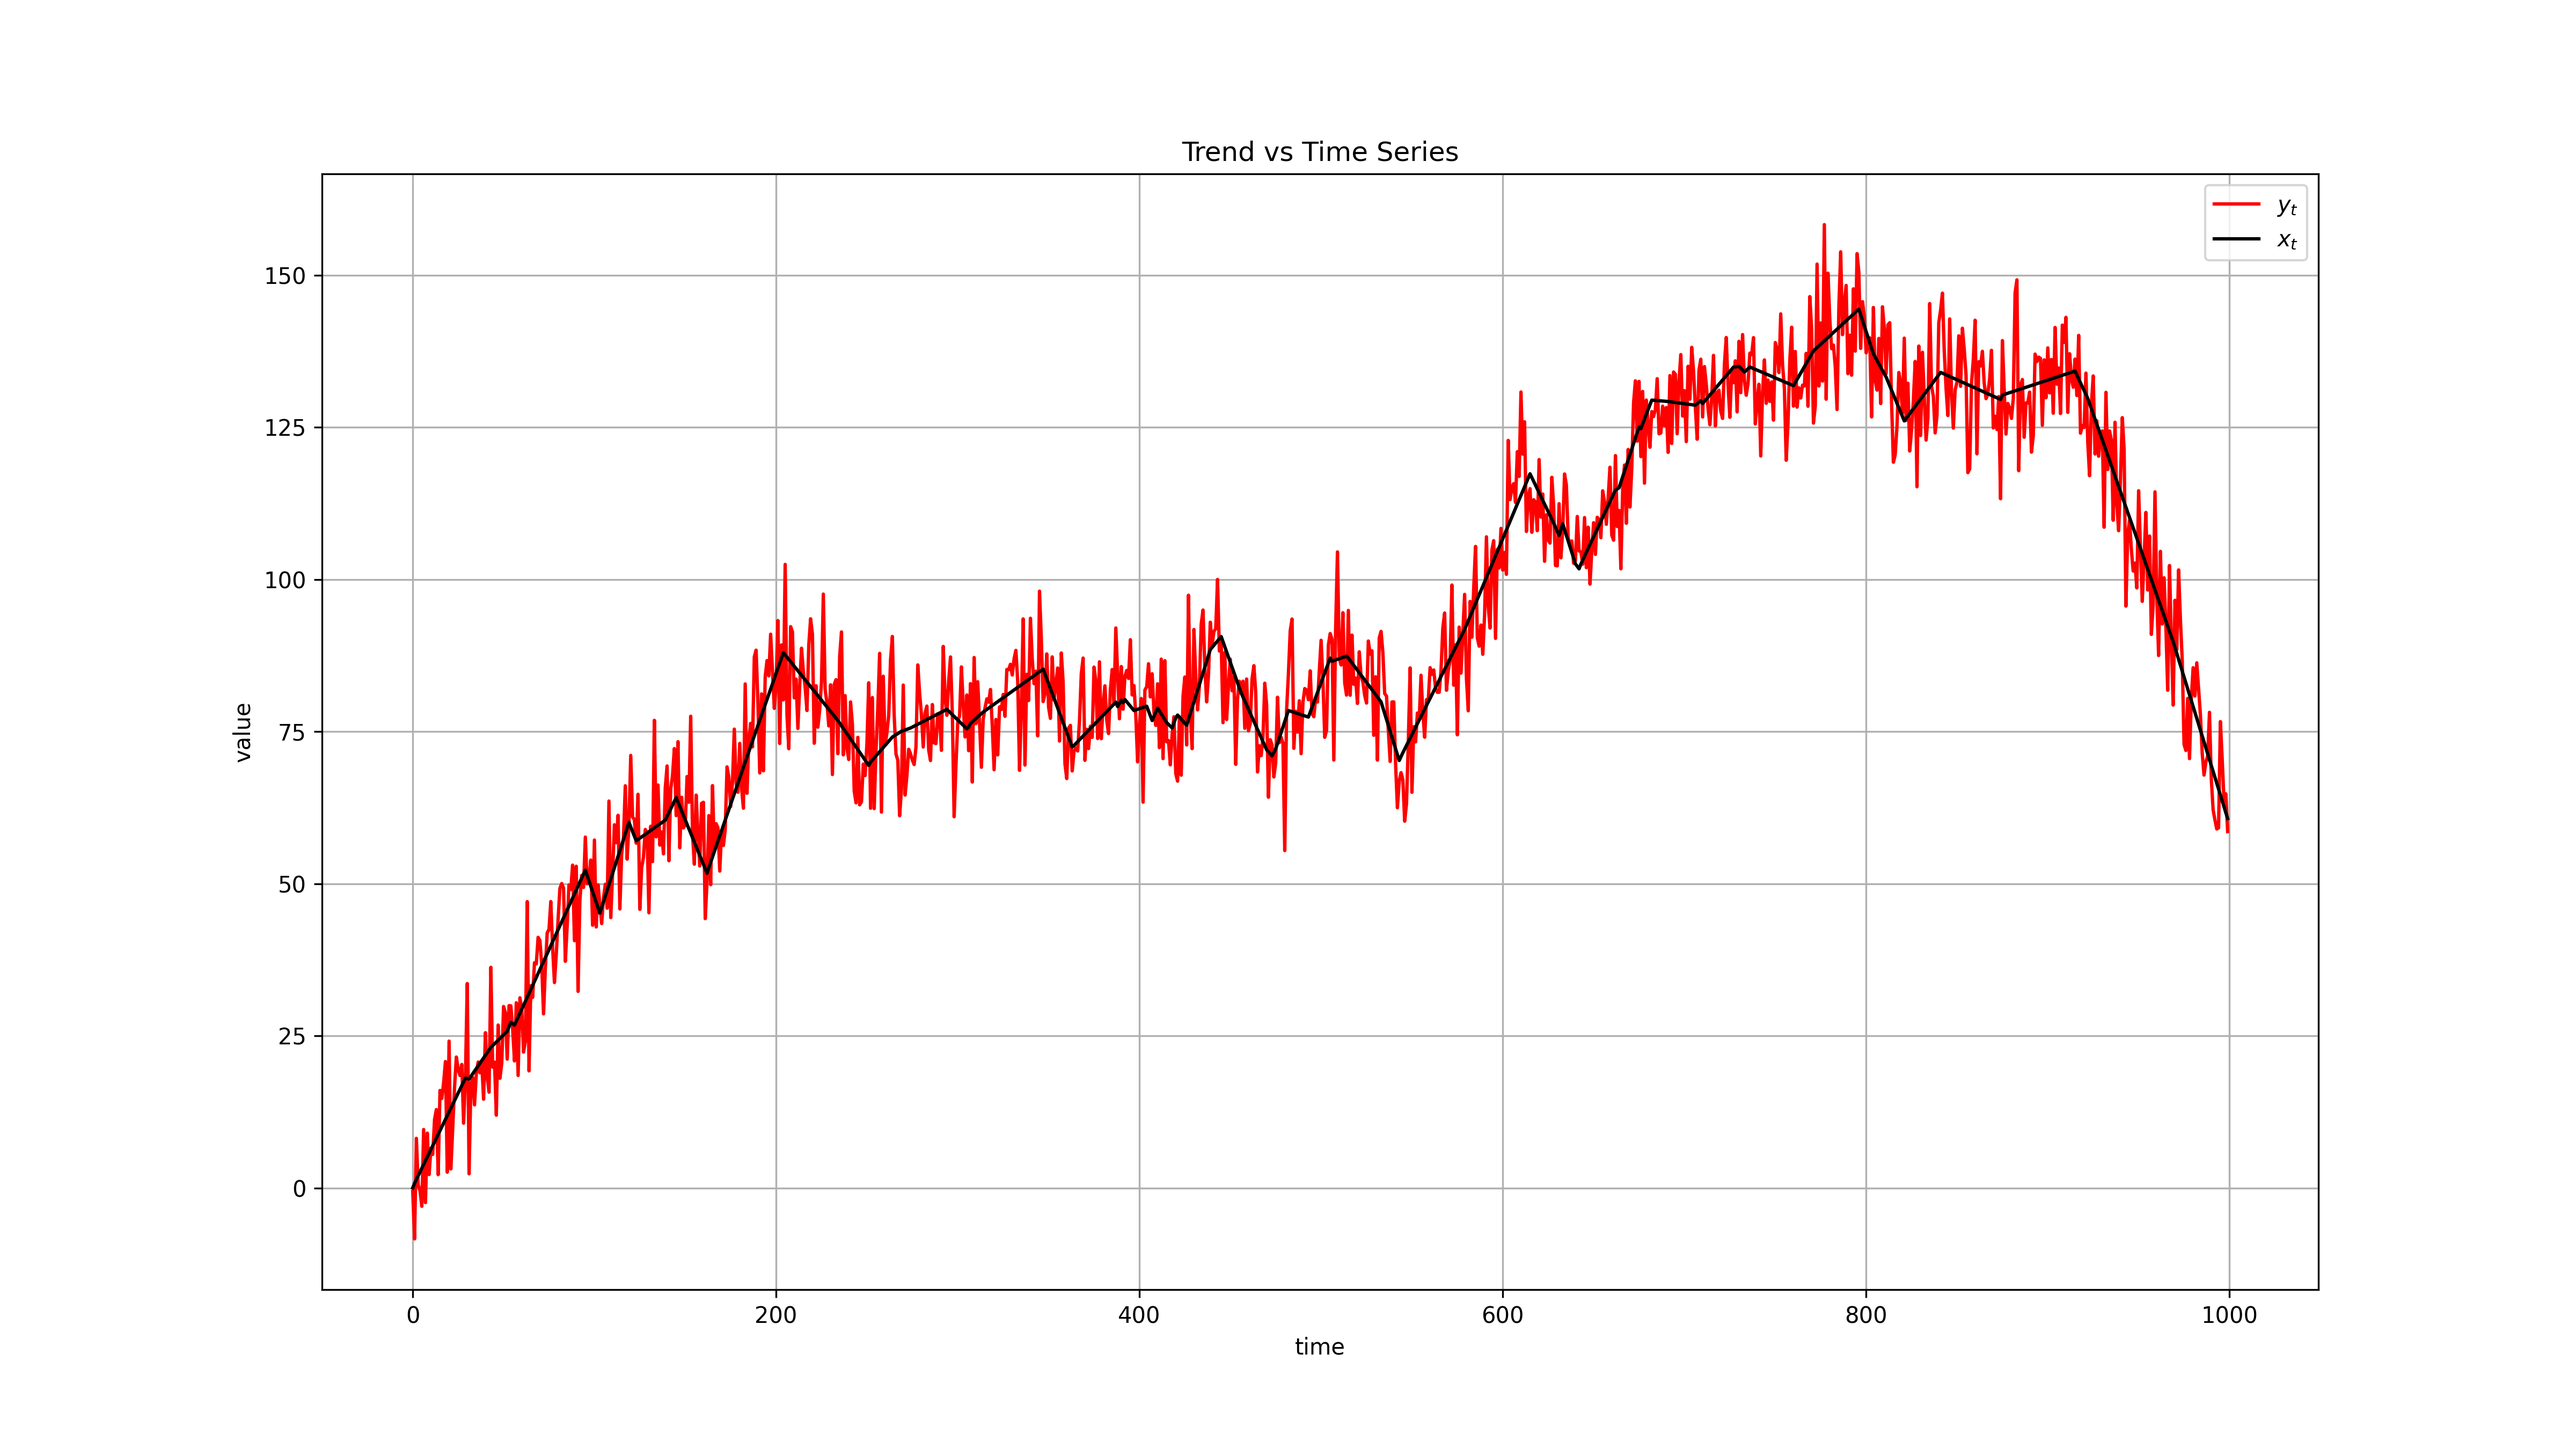
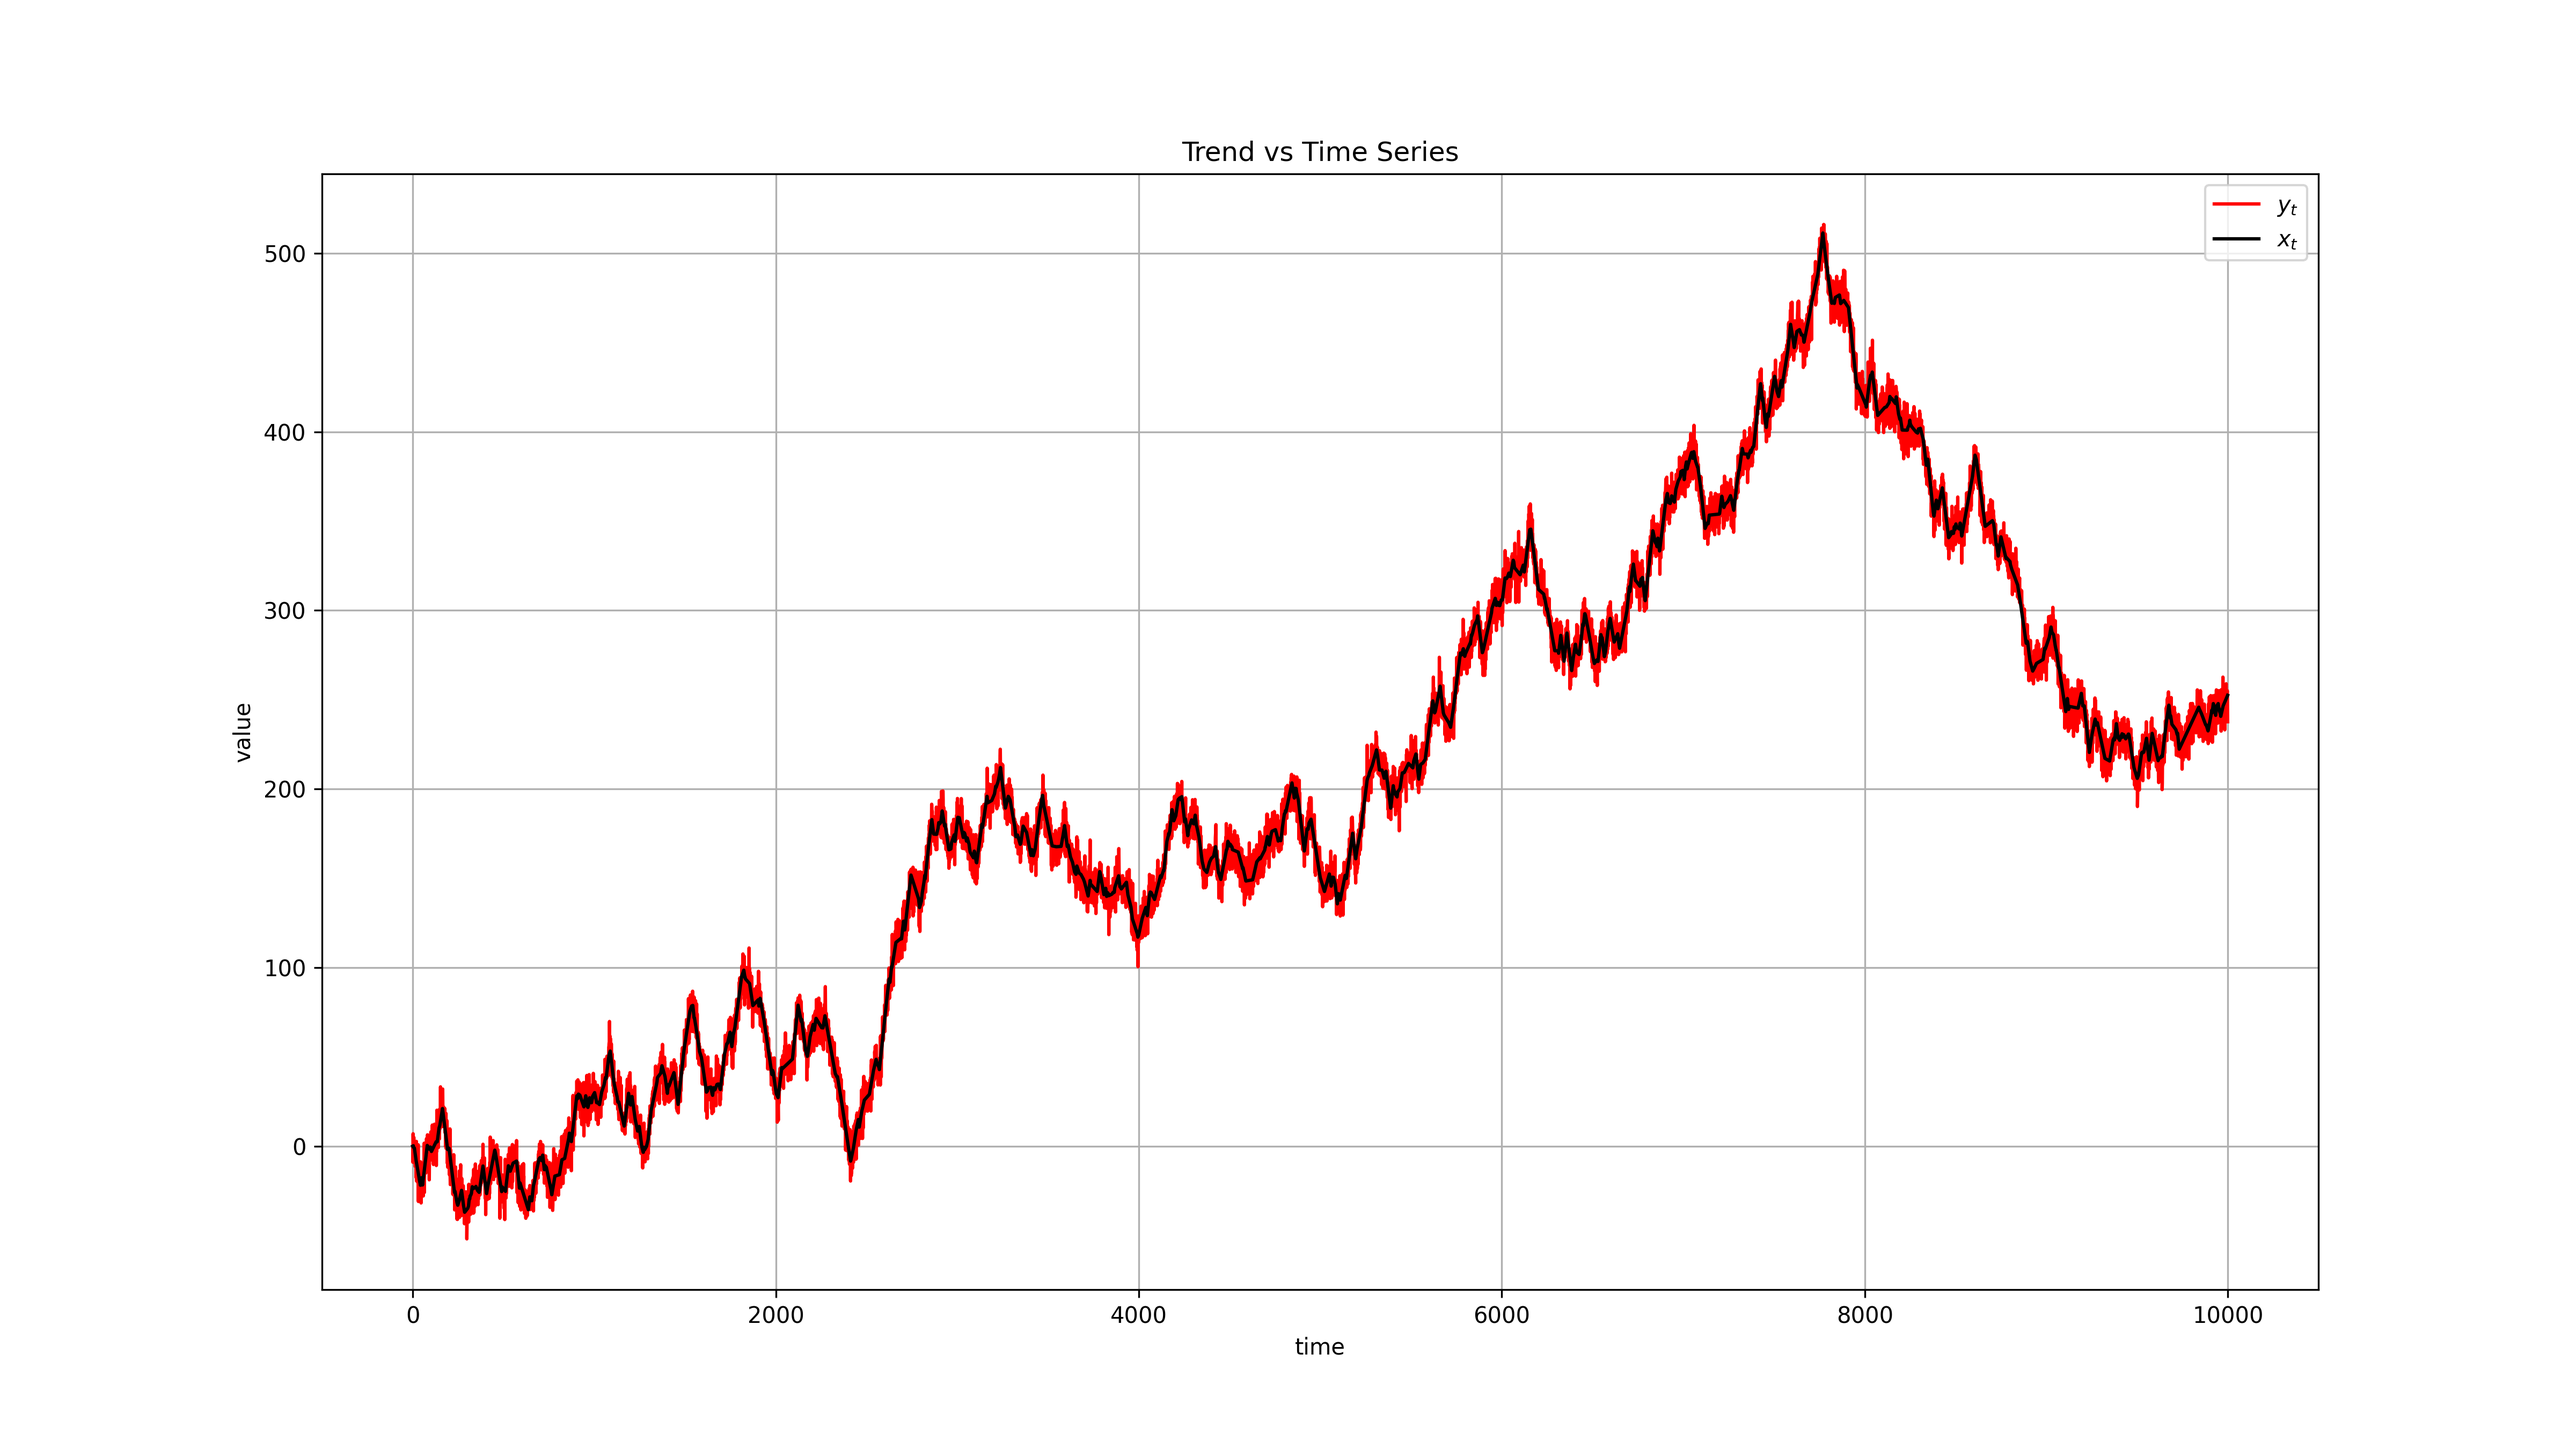
lab3

diff --git a/lab3/src/main.py b/lab3/src/main.py
@@ -59,8 +59,8 @@ def compute_Dx(x):
         Dx[i] = x[i] - 2 * x[i + 1] + x[i + 2]  
     return Dx
 
-def gradient(x, y, D):
-    return np.matmul(D, np.matmul(D.T, x) - y)
+def gradient(x, y):
+    return compute_Dx(compute_DTx(x) - y)
 
 def projection(x, rho):
     return np.maximum(-rho, np.minimum(rho, x))
@@ -68,28 +68,28 @@ def projection(x, rho):
 def g(x, alpha, grad_x, rho):
     return 1 / alpha * (x - projection(x - alpha * grad_x, rho))
 
-def f_lagrange(miu, y, D):
-    return (- 1 / 2) * np.linalg.norm(D.T @ miu) ** 2 + miu.T @ D @ y
+def f_lagrange(miu, y):
+    return (- 1 / 2) * np.linalg.norm(compute_DTx(miu)) ** 2 + miu.T @ compute_Dx(y)
 
-def mgp(y, rho, D, n, e = 1e-2, p = 0.5, c = 0.5, max_iter = 1000):
+def mgp(y, rho, n, e = 1e-2, p = 0.5, c = 0.5, max_iter = 1000):
     miu = np.zeros(n - 2)
     miu = projection(miu, rho)
 
     for i in range (max_iter):
-        grad_miu = gradient(miu, y, D)
+        grad_miu = gradient(miu, y)
 
         alpha_k = 1.0
         t = 0
 
-        f_x_k = f_lagrange(miu, y, D)
-        f_x_k_next = f_lagrange(projection(miu - alpha_k * grad_miu, rho), y, D)
+        f_x_k = f_lagrange(miu, y)
+        f_x_k_next = f_lagrange(projection(miu - alpha_k * grad_miu, rho), y)
         g_x_k = g(miu, alpha_k, grad_miu, rho)
 
         while f_x_k_next < (f_x_k - c * alpha_k * np.linalg.norm(g_x_k) ** 2):
             alpha_k = p * alpha_k
 
             miu_proj = projection(miu - alpha_k * grad_miu, rho)
-            f_x_k_next = f_lagrange(miu_proj, y, D)
+            f_x_k_next = f_lagrange(miu_proj, y)
             g_x_k = 1 / alpha_k * (miu - miu_proj)
 
             if t > 100:
@@ -212,7 +212,7 @@ def plot_cvxpy_results(results, labels, n):
 
 
 # a
-n = 1000
+n = 10000
 sigma = 2.5 
 probability = 0.9
 
@@ -247,7 +247,8 @@ plot_cvxpy_results(results, labels, n)
 
 # c
 rho = 10
-miu_star = mgp(time_series, rho, D, n)
+miu_star = mgp(time_series, rho, n)
+x_l1 = time_series - compute_DTx(miu_star)
 x_l1 = time_series - D.T @ miu_star
 
 plot_trend_time_series(x_l1, time_series, n, [r'$\hat{x}_{\ell_1}$', r'$y_t$'], f'Metoda Gradient Proiectat pentru rho = {rho}', 'c_mgp')
